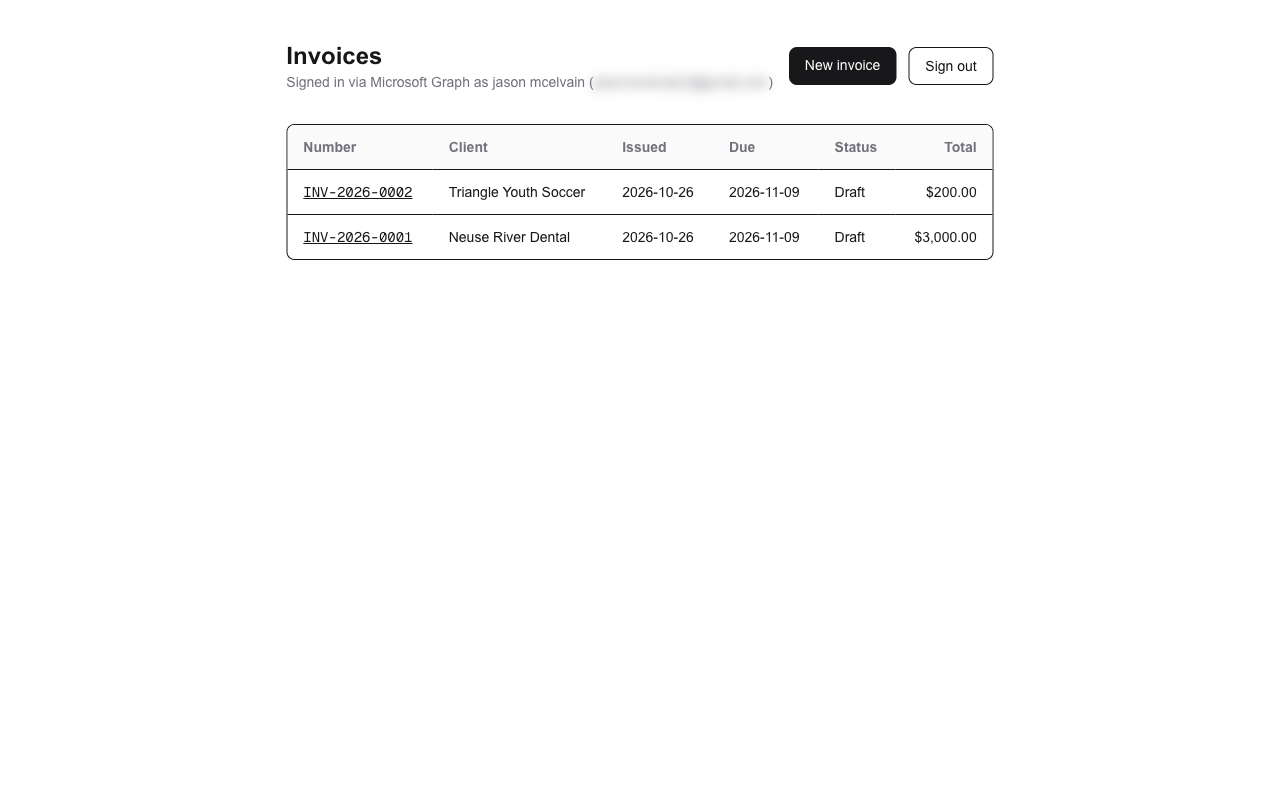
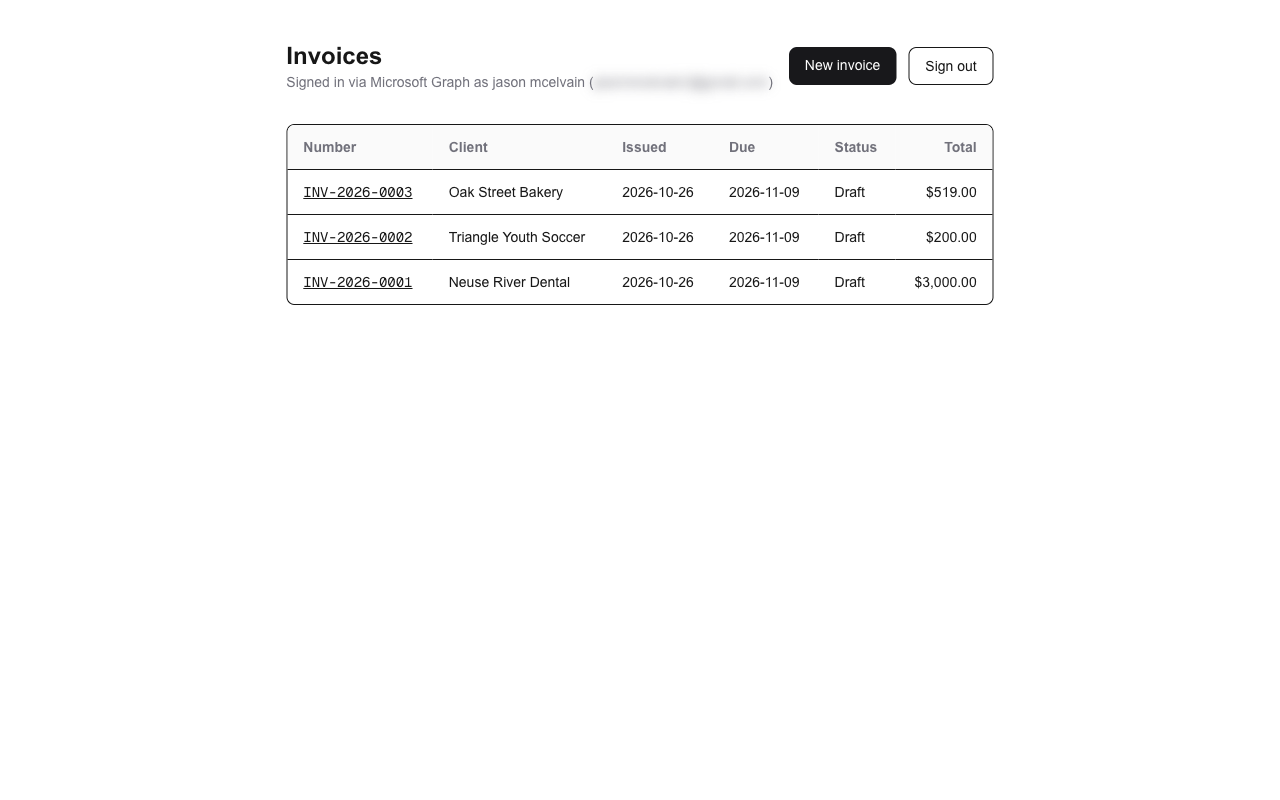
README: add invoice screenshot, refresh dashboard

diff --git a/README.md b/README.md
@@ -6,9 +6,9 @@ Invoices, payments and reminders for small businesses: a portfolio project by [J
 
 ![Dashboard](docs/screenshots/dashboard.png)
 
-| Sign in | New invoice |
-| --- | --- |
-| ![Sign in with Microsoft](docs/screenshots/sign-in.png) | ![New invoice form](docs/screenshots/new-invoice.png) |
+| Sign in | New invoice | Invoice |
+| --- | --- | --- |
+| ![Sign in with Microsoft](docs/screenshots/sign-in.png) | ![New invoice form](docs/screenshots/new-invoice.png) | ![Invoice INV-2026-0003](docs/screenshots/invoice.png) |
 
 ## What it does
 
